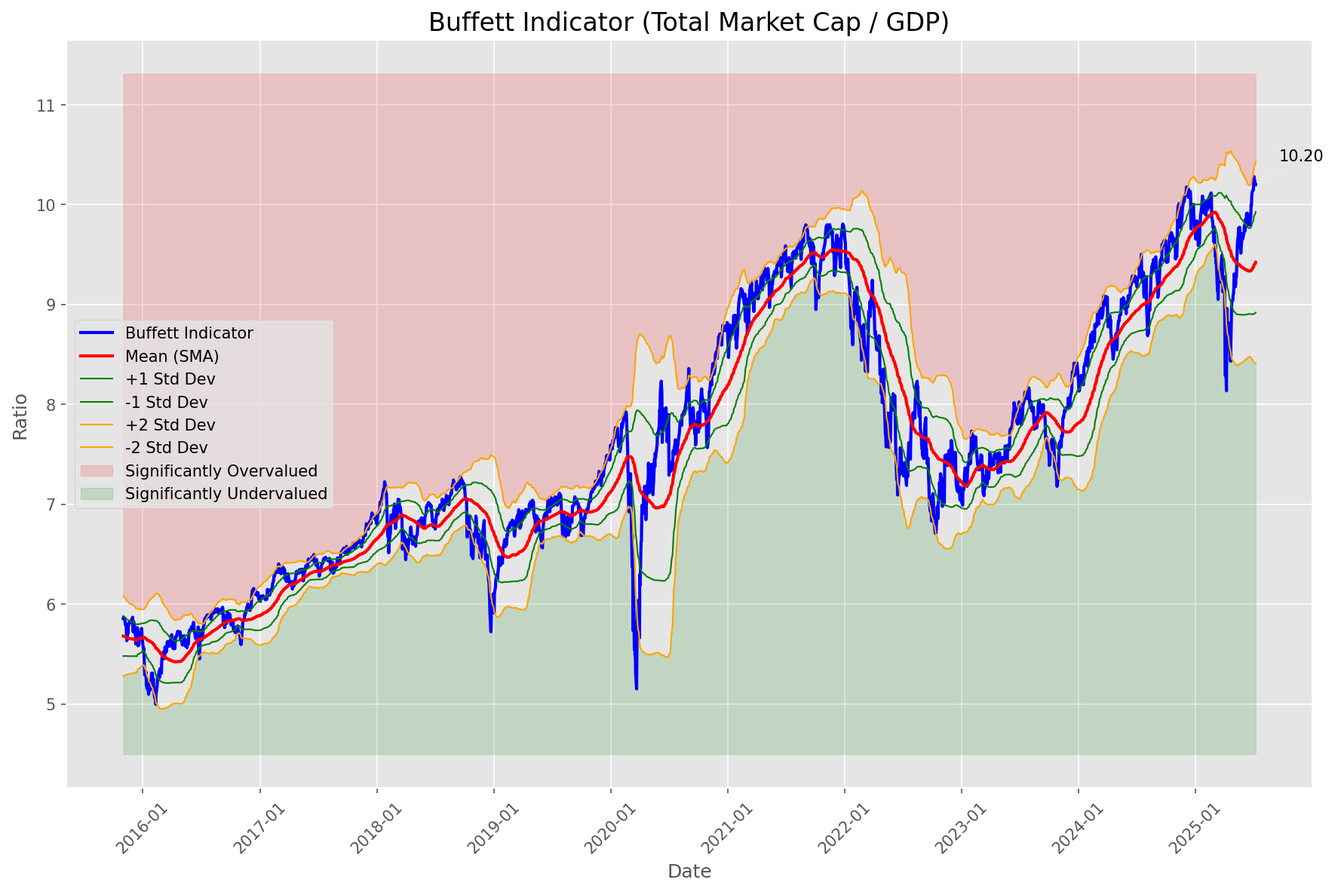
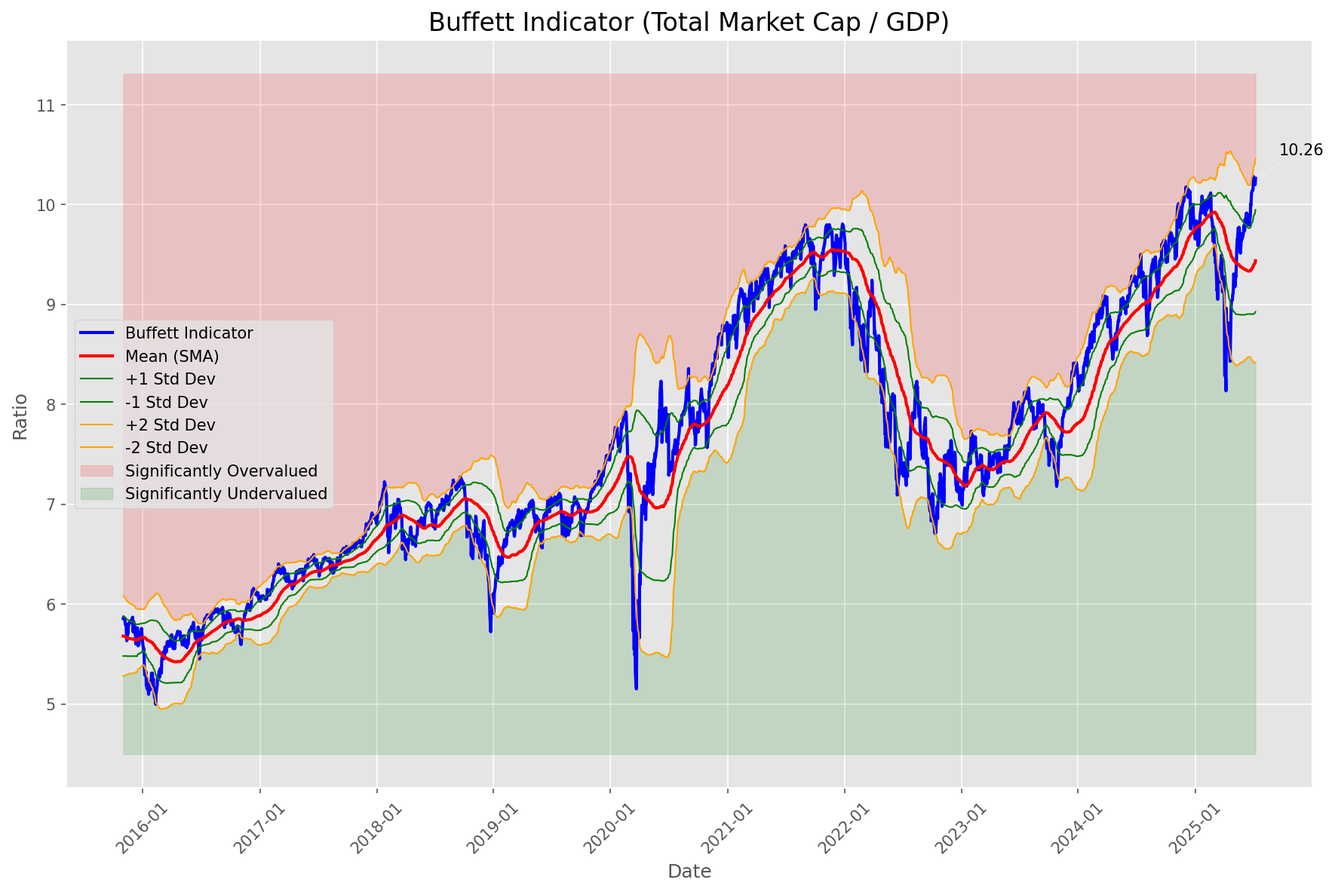
Add market report for 2025-07-10

diff --git a/oneil_relative_strength_report_2025-07-10.md b/oneil_relative_strength_report_2025-07-10.md
@@ -10,10 +10,10 @@
 |--------|-------|
 | **Market Valuation** | **Overvalued** |
 | **Current Ratio** | 10.26 |
-| **Historical Mean** | 9.42 |
-| **Standard Deviation** | 0.50 |
-| **Z-Score (StdDev from Mean)** | 1.54 |
-| **Total Market Cap** | $307.50 trillion |
+| **Historical Mean** | 9.44 |
+| **Standard Deviation** | 0.51 |
+| **Z-Score (StdDev from Mean)** | 1.62 |
+| **Total Market Cap** | $307.52 trillion |
 | **GDP** | $29.96 trillion |
 
 ## **Market Insights**
@@ -49,41 +49,41 @@ Based on William O'Neil's Relative Strength Methodology
 
 | ETF | Strength | RS Rating | Performance | Above Key MAs | Trend | Sector |
 |-----|----------|-----------|-------------|--------------|-------|--------|
-| [ARKW](https://www.tradingview.com/chart/?symbol=ARKW) | 98.5 | 97.0 | 76.14% | 10d ✓, 50d ✓, 200d ✓ | ↗ | Next Generation Internet |
-| [ARKK](https://www.tradingview.com/chart/?symbol=ARKK) | 98.0 | 96.0 | 71.17% | 10d ✓, 50d ✓, 200d ✓ | ↗ | Innovation |
-| [ARKF](https://www.tradingview.com/chart/?symbol=ARKF) | 98.0 | 96.0 | 71.57% | 10d ✓, 50d ✓, 200d ✓ | ↗ | Fintech Innovation |
-| [BLOK](https://www.tradingview.com/chart/?symbol=BLOK) | 96.0 | 92.0 | 54.17% | 10d ✓, 50d ✓, 200d ✓ | ↗ | Blockchain & Cryptocurrency |
-| [XLK](https://www.tradingview.com/chart/?symbol=XLK) | 92.5 | 85.0 | 40.54% | 10d ✓, 50d ✓, 200d ✓ | ↗ | Technology |
-| [AIQ](https://www.tradingview.com/chart/?symbol=AIQ) | 90.5 | 81.0 | 36.06% | 10d ✓, 50d ✓, 200d ✓ | ↗ | Artificial Intelligence & Technology |
-| [JETS](https://www.tradingview.com/chart/?symbol=JETS) | 89.0 | 78.0 | 32.46% | 10d ✓, 50d ✓, 200d ✓ | ↗ | Airlines |
-| [URA](https://www.tradingview.com/chart/?symbol=URA) | 88.6 | 97.0 | 79.08% | 10d ✗, 50d ✓, 200d ✓ | ↗ | Uranium |
-| [CIBR](https://www.tradingview.com/chart/?symbol=CIBR) | 88.5 | 77.0 | 32.25% | 10d ✓, 50d ✓, 200d ✓ | ↗ | Cybersecurity |
-| [PAVE](https://www.tradingview.com/chart/?symbol=PAVE) | 87.5 | 75.0 | 30.64% | 10d ✓, 50d ✓, 200d ✓ | ↗ | Infrastructure |
-| [XLI](https://www.tradingview.com/chart/?symbol=XLI) | 85.5 | 71.0 | 27.69% | 10d ✓, 50d ✓, 200d ✓ | ↗ | Industrial |
-| [XLY](https://www.tradingview.com/chart/?symbol=XLY) | 79.0 | 58.0 | 21.21% | 10d ✓, 50d ✓, 200d ✓ | ↗ | Consumer Discretionary |
-| [XLF](https://www.tradingview.com/chart/?symbol=XLF) | 77.0 | 54.0 | 18.85% | 10d ✓, 50d ✓, 200d ✓ | ↗ | Financial |
-| [IYZ](https://www.tradingview.com/chart/?symbol=IYZ) | 76.5 | 53.0 | 18.50% | 10d ✓, 50d ✓, 200d ✓ | ↗ | Telecommunications |
-| [SOXX](https://www.tradingview.com/chart/?symbol=SOXX) | 75.5 | 91.0 | 51.37% | 10d ✓, 50d ✓, 200d ✓ | ↘ | Semiconductors |
-| [XLC](https://www.tradingview.com/chart/?symbol=XLC) | 70.6 | 61.0 | 22.56% | 10d ✗, 50d ✓, 200d ✓ | ↗ | Communications |
-| [ARKG](https://www.tradingview.com/chart/?symbol=ARKG) | 70.5 | 81.0 | 35.78% | 10d ✓, 50d ✓, 200d ✓ | ↘ | Genomics |
-| [SLV](https://www.tradingview.com/chart/?symbol=SLV) | 69.6 | 59.0 | 21.59% | 10d ✗, 50d ✓, 200d ✓ | ↗ | Silver |
-| [XLU](https://www.tradingview.com/chart/?symbol=XLU) | 69.5 | 39.0 | 11.60% | 10d ✓, 50d ✓, 200d ✓ | ↗ | Utilities |
-| [ICLN](https://www.tradingview.com/chart/?symbol=ICLN) | 64.5 | 69.0 | 26.51% | 10d ✓, 50d ✓, 200d ✓ | ↘ | Clean Energy |
-| [KWEB](https://www.tradingview.com/chart/?symbol=KWEB) | 64.1 | 48.0 | 15.91% | 10d ✗, 50d ✓, 200d ✓ | ↗ | Chinese Internet |
-| [IYT](https://www.tradingview.com/chart/?symbol=IYT) | 63.5 | 67.0 | 25.32% | 10d ✓, 50d ✓, 200d ✓ | ↘ | Transportation |
-| [XLB](https://www.tradingview.com/chart/?symbol=XLB) | 58.0 | 56.0 | 19.77% | 10d ✓, 50d ✓, 200d ✓ | ↘ | Materials |
-| [GLD](https://www.tradingview.com/chart/?symbol=GLD) | 49.7 | 39.0 | 11.62% | 10d ✗, 50d ✗, 200d ✓ | ↗ | Gold |
-| [DBC](https://www.tradingview.com/chart/?symbol=DBC) | 45.5 | 31.0 | 8.10% | 10d ✓, 50d ✓, 200d ✓ | ↘ | Commodities |
-| [IBB](https://www.tradingview.com/chart/?symbol=IBB) | 41.8 | 44.0 | 13.84% | 10d ✓, 50d ✓, 200d ✗ | ↘ | Biotechnology |
-| [XLE](https://www.tradingview.com/chart/?symbol=XLE) | 40.3 | 41.0 | 12.54% | 10d ✓, 50d ✓, 200d ✗ | ↘ | Energy |
-| [ITB](https://www.tradingview.com/chart/?symbol=ITB) | 39.8 | 40.0 | 11.81% | 10d ✓, 50d ✓, 200d ✗ | ↘ | Home Construction |
-| [IYR](https://www.tradingview.com/chart/?symbol=IYR) | 37.3 | 35.0 | 9.63% | 10d ✓, 50d ✓, 200d ✗ | ↘ | Real Estate |
-| [XLP](https://www.tradingview.com/chart/?symbol=XLP) | 32.0 | 24.0 | 4.22% | 10d ✗, 50d ✗, 200d ✗ | ↗ | Consumer Staples |
-| [XLV](https://www.tradingview.com/chart/?symbol=XLV) | 28.3 | 17.0 | 0.76% | 10d ✓, 50d ✓, 200d ✗ | ↘ | Healthcare |
-| [DBA](https://www.tradingview.com/chart/?symbol=DBA) | 26.0 | 12.0 | -0.80% | 10d ✗, 50d ✗, 200d ✗ | ↗ | Agriculture |
-| [TLT](https://www.tradingview.com/chart/?symbol=TLT) | 14.4 | 9.0 | -3.46% | 10d ✗, 50d ✓, 200d ✗ | ↘ | Long-term Treasuries |
-| [UUP](https://www.tradingview.com/chart/?symbol=UUP) | 13.9 | 8.0 | -4.55% | 10d ✓, 50d ✗, 200d ✗ | ↘ | U.S. Dollar |
-| [BIL](https://www.tradingview.com/chart/?symbol=BIL) | 7.0 | 14.0 | 0.03% | 10d ✗, 50d ✗, 200d ✗ | ↘ | Short-term Treasuries |
+| [ARKK](https://www.tradingview.com/chart/?symbol=ARKK) | 98.5 | 97.0 | 79.26% | 10d ✓, 50d ✓, 200d ✓ | ↗ | Innovation |
+| [ARKW](https://www.tradingview.com/chart/?symbol=ARKW) | 98.0 | 96.0 | 76.14% | 10d ✓, 50d ✓, 200d ✓ | ↗ | Next Generation Internet |
+| [ARKF](https://www.tradingview.com/chart/?symbol=ARKF) | 98.0 | 96.0 | 73.83% | 10d ✓, 50d ✓, 200d ✓ | ↗ | Fintech Innovation |
+| [BLOK](https://www.tradingview.com/chart/?symbol=BLOK) | 95.5 | 91.0 | 54.17% | 10d ✓, 50d ✓, 200d ✓ | ↗ | Blockchain & Cryptocurrency |
+| [JETS](https://www.tradingview.com/chart/?symbol=JETS) | 93.5 | 87.0 | 45.94% | 10d ✓, 50d ✓, 200d ✓ | ↗ | Airlines |
+| [XLK](https://www.tradingview.com/chart/?symbol=XLK) | 92.5 | 85.0 | 42.58% | 10d ✓, 50d ✓, 200d ✓ | ↗ | Technology |
+| [URA](https://www.tradingview.com/chart/?symbol=URA) | 88.6 | 97.0 | 80.85% | 10d ✗, 50d ✓, 200d ✓ | ↗ | Uranium |
+| [PAVE](https://www.tradingview.com/chart/?symbol=PAVE) | 88.0 | 76.0 | 33.44% | 10d ✓, 50d ✓, 200d ✓ | ↗ | Infrastructure |
+| [XLI](https://www.tradingview.com/chart/?symbol=XLI) | 85.5 | 71.0 | 29.28% | 10d ✓, 50d ✓, 200d ✓ | ↗ | Industrial |
+| [XLY](https://www.tradingview.com/chart/?symbol=XLY) | 81.5 | 63.0 | 25.20% | 10d ✓, 50d ✓, 200d ✓ | ↗ | Consumer Discretionary |
+| [AIQ](https://www.tradingview.com/chart/?symbol=AIQ) | 80.6 | 81.0 | 38.03% | 10d ✗, 50d ✓, 200d ✓ | ↗ | Artificial Intelligence & Technology |
+| [SLV](https://www.tradingview.com/chart/?symbol=SLV) | 79.0 | 58.0 | 22.72% | 10d ✓, 50d ✓, 200d ✓ | ↗ | Silver |
+| [SOXX](https://www.tradingview.com/chart/?symbol=SOXX) | 76.5 | 93.0 | 58.94% | 10d ✓, 50d ✓, 200d ✓ | ↘ | Semiconductors |
+| [XLF](https://www.tradingview.com/chart/?symbol=XLF) | 76.0 | 52.0 | 19.55% | 10d ✓, 50d ✓, 200d ✓ | ↗ | Financial |
+| [CIBR](https://www.tradingview.com/chart/?symbol=CIBR) | 75.6 | 71.0 | 29.60% | 10d ✗, 50d ✓, 200d ✓ | ↗ | Cybersecurity |
+| [IYZ](https://www.tradingview.com/chart/?symbol=IYZ) | 75.0 | 50.0 | 18.50% | 10d ✓, 50d ✓, 200d ✓ | ↗ | Telecommunications |
+| [ARKG](https://www.tradingview.com/chart/?symbol=ARKG) | 72.5 | 85.0 | 42.09% | 10d ✓, 50d ✓, 200d ✓ | ↘ | Genomics |
+| [XLC](https://www.tradingview.com/chart/?symbol=XLC) | 70.1 | 60.0 | 23.77% | 10d ✗, 50d ✓, 200d ✓ | ↗ | Communications |
+| [XLU](https://www.tradingview.com/chart/?symbol=XLU) | 69.0 | 38.0 | 12.24% | 10d ✓, 50d ✓, 200d ✓ | ↗ | Utilities |
+| [KWEB](https://www.tradingview.com/chart/?symbol=KWEB) | 66.6 | 53.0 | 20.08% | 10d ✗, 50d ✓, 200d ✓ | ↗ | Chinese Internet |
+| [IYT](https://www.tradingview.com/chart/?symbol=IYT) | 66.5 | 73.0 | 31.12% | 10d ✓, 50d ✓, 200d ✓ | ↘ | Transportation |
+| [ICLN](https://www.tradingview.com/chart/?symbol=ICLN) | 64.5 | 69.0 | 28.27% | 10d ✓, 50d ✓, 200d ✓ | ↘ | Clean Energy |
+| [XLB](https://www.tradingview.com/chart/?symbol=XLB) | 61.0 | 62.0 | 24.74% | 10d ✓, 50d ✓, 200d ✓ | ↘ | Materials |
+| [XLE](https://www.tradingview.com/chart/?symbol=XLE) | 52.0 | 44.0 | 15.66% | 10d ✓, 50d ✓, 200d ✓ | ↘ | Energy |
+| [GLD](https://www.tradingview.com/chart/?symbol=GLD) | 48.2 | 36.0 | 11.11% | 10d ✗, 50d ✗, 200d ✓ | ↗ | Gold |
+| [DBC](https://www.tradingview.com/chart/?symbol=DBC) | 45.0 | 30.0 | 8.10% | 10d ✓, 50d ✓, 200d ✓ | ↘ | Commodities |
+| [IBB](https://www.tradingview.com/chart/?symbol=IBB) | 44.8 | 50.0 | 18.58% | 10d ✓, 50d ✓, 200d ✗ | ↘ | Biotechnology |
+| [ITB](https://www.tradingview.com/chart/?symbol=ITB) | 43.8 | 48.0 | 17.55% | 10d ✓, 50d ✓, 200d ✗ | ↘ | Home Construction |
+| [XLP](https://www.tradingview.com/chart/?symbol=XLP) | 43.2 | 26.0 | 6.27% | 10d ✗, 50d ✗, 200d ✓ | ↗ | Consumer Staples |
+| [IYR](https://www.tradingview.com/chart/?symbol=IYR) | 39.3 | 39.0 | 13.01% | 10d ✓, 50d ✓, 200d ✗ | ↘ | Real Estate |
+| [XLV](https://www.tradingview.com/chart/?symbol=XLV) | 29.8 | 20.0 | 2.71% | 10d ✓, 50d ✓, 200d ✗ | ↘ | Healthcare |
+| [DBA](https://www.tradingview.com/chart/?symbol=DBA) | 25.5 | 11.0 | -0.80% | 10d ✗, 50d ✗, 200d ✗ | ↗ | Agriculture |
+| [UUP](https://www.tradingview.com/chart/?symbol=UUP) | 13.9 | 8.0 | -3.86% | 10d ✓, 50d ✗, 200d ✗ | ↘ | U.S. Dollar |
+| [BIL](https://www.tradingview.com/chart/?symbol=BIL) | 6.5 | 13.0 | 0.03% | 10d ✗, 50d ✗, 200d ✗ | ↘ | Short-term Treasuries |
+| [TLT](https://www.tradingview.com/chart/?symbol=TLT) | 5.0 | 10.0 | -1.99% | 10d ✗, 50d ✗, 200d ✗ | ↘ | Long-term Treasuries |
 
 ### **Sector ETF Performance Interpretation**
 
@@ -98,156 +98,152 @@ This table shows the relative strength metrics for different market sectors base
 
 ### **Current Sector Leadership**
 
-The current market leadership is coming from the following sectors: **Next Generation Internet, Innovation, Fintech Innovation**.
+The current market leadership is coming from the following sectors: **Innovation, Next Generation Internet, Fintech Innovation**.
 
-The **Next Generation Internet** sector (represented by **ARKW**) is showing particularly strong relative strength with an RS rating of 97.0 and performance of 76.14% vs. the S&P 500. This sector is trading above its 10-day, 50-day, 200-day moving average(s). Investors should consider focusing on high RS stocks within these leading sectors for potential outperformance.
+The **Innovation** sector (represented by **ARKK**) is showing particularly strong relative strength with an RS rating of 97.0 and performance of 79.26% vs. the S&P 500. This sector is trading above its 10-day, 50-day, 200-day moving average(s). Investors should consider focusing on high RS stocks within these leading sectors for potential outperformance.
 
 ---
 
 ## **Buy Recommendations**
 
-The following 53 stocks show exceptional relative strength:
+The following 37 stocks show exceptional relative strength:
 
 | RS Rating | Buy Score | Current Price | Chart | Name | Ticker |
 |-----------|-----------|---------------|-------|------|--------|
-| 100 | 100 | $94.54 | [Chart](https://www.tradingview.com/chart/?symbol=HOOD) | Robinhood Markets, Inc. Class A Common Stock | HOOD |
-| 100 | 100 | $179.37 | [Chart](https://www.tradingview.com/chart/?symbol=LEU) | Centrus Energy Corp. | LEU |
-| 99 | 100 | $75.77 | [Chart](https://www.tradingview.com/chart/?symbol=ODD) | ODDITY Tech Ltd. Class A Ordinary Shares | ODD |
+| 100 | 100 | $183.59 | [Chart](https://www.tradingview.com/chart/?symbol=LEU) | Centrus Energy Corp. | LEU |
+| 100 | 100 | $94.20 | [Chart](https://www.tradingview.com/chart/?symbol=HOOD) | Robinhood Markets, Inc. Class A Common Stock | HOOD |
+| 99 | 100 | $352.58 | [Chart](https://www.tradingview.com/chart/?symbol=CVNA) | Carvana Co. | CVNA |
+| 99 | 100 | $46.95 | [Chart](https://www.tradingview.com/chart/?symbol=MP) | MP Materials Corp. | MP |
+| 99 | 100 | $104.79 | [Chart](https://www.tradingview.com/chart/?symbol=RBLX) | Roblox Corporation | RBLX |
 | 99 | 100 | $145.69 | [Chart](https://www.tradingview.com/chart/?symbol=LMB) | Limbach Holdings, Inc Common Stock | LMB |
-| 99 | 100 | $106.68 | [Chart](https://www.tradingview.com/chart/?symbol=RBLX) | Roblox Corporation | RBLX |
-| 99 | 100 | $351.09 | [Chart](https://www.tradingview.com/chart/?symbol=CVNA) | Carvana Co. | CVNA |
-| 98 | 100 | $43.90 | [Chart](https://www.tradingview.com/chart/?symbol=FARO) | Faro Technologies Inc | FARO |
-| 98 | 100 | $143.13 | [Chart](https://www.tradingview.com/chart/?symbol=PLTR) | Palantir Technologies Inc. Class A Common Stock | PLTR |
-| 98 | 100 | $104.77 | [Chart](https://www.tradingview.com/chart/?symbol=VRNA) | Verona Pharma plc | VRNA |
-| 98 | 100 | $535.77 | [Chart](https://www.tradingview.com/chart/?symbol=GEV) | GE Vernova Inc. | GEV |
-| 97 | 100 | $316.50 | [Chart](https://www.tradingview.com/chart/?symbol=ZS) | Zscaler, Inc. Common Stock | ZS |
-| 97 | 100 | $142.40 | [Chart](https://www.tradingview.com/chart/?symbol=FUTU) | Futu Holdings Limited American Depositary Shares | FUTU |
-| 96 | 100 | $49.06 | [Chart](https://www.tradingview.com/chart/?symbol=REVG) | REV Group, Inc. | REVG |
-| 96 | 100 | $51.23 | [Chart](https://www.tradingview.com/chart/?symbol=ARKF) | ARK Fintech Innovation ETF | ARKF |
-| 96 | 100 | $91.59 | [Chart](https://www.tradingview.com/chart/?symbol=RBRK) | Rubrik, Inc. | RBRK |
-| 96 | 100 | $38.50 | [Chart](https://www.tradingview.com/chart/?symbol=AS) | Amer Sports, Inc. | AS |
-| 95 | 100 | $52.04 | [Chart](https://www.tradingview.com/chart/?symbol=INOD) | Innodata Inc. | INOD |
-| 94 | 100 | $34.49 | [Chart](https://www.tradingview.com/chart/?symbol=APG) | APi Group Corporation | APG |
-| 94 | 100 | $21.36 | [Chart](https://www.tradingview.com/chart/?symbol=MAG) | MAG Silver Corp. | MAG |
-| 94 | 100 | $46.02 | [Chart](https://www.tradingview.com/chart/?symbol=KTOS) | Kratos Defense & Security Solutions, Inc. | KTOS |
-| 94 | 100 | $89.00 | [Chart](https://www.tradingview.com/chart/?symbol=RYTM) | Rhythm Pharmaceuticals, Inc. Common Stock | RYTM |
-| 94 | 100 | $57.84 | [Chart](https://www.tradingview.com/chart/?symbol=IBKR) | Interactive Brokers Group, Inc. Class A Common Stock | IBKR |
-| 93 | 100 | $181.42 | [Chart](https://www.tradingview.com/chart/?symbol=HWM) | Howmet Aerospace Inc. | HWM |
-| 93 | 100 | $252.03 | [Chart](https://www.tradingview.com/chart/?symbol=WWD) | Woodward, Inc. | WWD |
-| 93 | 100 | $513.51 | [Chart](https://www.tradingview.com/chart/?symbol=CRWD) | CrowdStrike Holdings, Inc. Class A Common Stock | CRWD |
-| 93 | 100 | $71.93 | [Chart](https://www.tradingview.com/chart/?symbol=URBN) | Urban Outfitters Inc | URBN |
-| 93 | 100 | $30.38 | [Chart](https://www.tradingview.com/chart/?symbol=DB) | Deutsche Bank Aktiengesellschaft | DB |
-| 92 | 100 | $352.74 | [Chart](https://www.tradingview.com/chart/?symbol=APP) | Applovin Corporation Class A Common Stock | APP |
-| 92 | 100 | $47.01 | [Chart](https://www.tradingview.com/chart/?symbol=DRS) | Leonardo DRS, Inc. Common Stock | DRS |
-| 92 | 100 | $42.85 | [Chart](https://www.tradingview.com/chart/?symbol=KD) | Kyndryl Holdings, Inc. | KD |
-| 91 | 100 | $95.31 | [Chart](https://www.tradingview.com/chart/?symbol=TPR) | Tapestry, Inc. Common Stock | TPR |
-| 91 | 100 | $45.98 | [Chart](https://www.tradingview.com/chart/?symbol=BBIO) | BridgeBio Pharma, Inc. Common Stock | BBIO |
-| 91 | 100 | $290.56 | [Chart](https://www.tradingview.com/chart/?symbol=RL) | Ralph Lauren Corporation | RL |
-| 90 | 100 | $250.33 | [Chart](https://www.tradingview.com/chart/?symbol=GE) | GE Aerospace | GE |
-| 89 | 100 | $44.64 | [Chart](https://www.tradingview.com/chart/?symbol=TOST) | Toast, Inc. | TOST |
-| 89 | 100 | $18.63 | [Chart](https://www.tradingview.com/chart/?symbol=BCS) | Barclays PLC | BCS |
-| 88 | 100 | $64.14 | [Chart](https://www.tradingview.com/chart/?symbol=CAKE) | Cheesecake Factory (The) | CAKE |
-| 87 | 100 | $29.41 | [Chart](https://www.tradingview.com/chart/?symbol=SRAD) | Sportradar Group AG Class A Ordinary Shares | SRAD |
-| 89 | 99 | $103.46 | [Chart](https://www.tradingview.com/chart/?symbol=SANM) | Sanmina  Corp | SANM |
-| 89 | 99 | $29.98 | [Chart](https://www.tradingview.com/chart/?symbol=NTGR) | NETGEAR, Inc. | NTGR |
-| 88 | 99 | $49.57 | [Chart](https://www.tradingview.com/chart/?symbol=BTC) | Grayscale Bitcoin Mini Trust ETF | BTC |
-| 88 | 98 | $63.58 | [Chart](https://www.tradingview.com/chart/?symbol=IBIT) | iShares Bitcoin Trust ETF | IBIT |
-| 85 | 98 | $29.54 | [Chart](https://www.tradingview.com/chart/?symbol=CAE) | CAE INC | CAE |
-| 86 | 97 | $218.03 | [Chart](https://www.tradingview.com/chart/?symbol=COF) | Capital One Financial | COF |
-| 86 | 97 | $36.21 | [Chart](https://www.tradingview.com/chart/?symbol=ATAT) | Atour Lifestyle Holdings Limited American Depositary Shares | ATAT |
-| 83 | 97 | $97.10 | [Chart](https://www.tradingview.com/chart/?symbol=SNEX) | StoneX Group Inc. Common Stock | SNEX |
-| 85 | 96 | $25.24 | [Chart](https://www.tradingview.com/chart/?symbol=KAR) | OPENLANE, Inc | KAR |
-| 84 | 96 | $60.30 | [Chart](https://www.tradingview.com/chart/?symbol=SHLD) | Global X Defense Tech ETF | SHLD |
-| 84 | 94 | $46.53 | [Chart](https://www.tradingview.com/chart/?symbol=AU) | AngloGold Ashanti plc | AU |
-| 82 | 94 | $26.62 | [Chart](https://www.tradingview.com/chart/?symbol=OR) | OR Royalties Inc. | OR |
-| 82 | 93 | $76.20 | [Chart](https://www.tradingview.com/chart/?symbol=CTVA) | Corteva, Inc. Common Stock | CTVA |
-| 82 | 92 | $256.57 | [Chart](https://www.tradingview.com/chart/?symbol=WTS) | Watts Water Technologies, Inc. Class A | WTS |
-| 80 | 90 | $112.07 | [Chart](https://www.tradingview.com/chart/?symbol=SPMO) | Invesco S&P 500 Momentum ETF | SPMO |
+| 98 | 100 | $75.77 | [Chart](https://www.tradingview.com/chart/?symbol=ODD) | ODDITY Tech Ltd. Class A Ordinary Shares | ODD |
+| 98 | 100 | $104.85 | [Chart](https://www.tradingview.com/chart/?symbol=VRNA) | Verona Pharma plc | VRNA |
+| 98 | 100 | $144.76 | [Chart](https://www.tradingview.com/chart/?symbol=FUTU) | Futu Holdings Limited American Depositary Shares | FUTU |
+| 97 | 100 | $142.13 | [Chart](https://www.tradingview.com/chart/?symbol=PLTR) | Palantir Technologies Inc. Class A Common Stock | PLTR |
+| 97 | 100 | $526.75 | [Chart](https://www.tradingview.com/chart/?symbol=GEV) | GE Vernova Inc. | GEV |
+| 97 | 100 | $43.92 | [Chart](https://www.tradingview.com/chart/?symbol=FARO) | Faro Technologies Inc | FARO |
+| 96 | 100 | $50.74 | [Chart](https://www.tradingview.com/chart/?symbol=ARKF) | ARK Fintech Innovation ETF | ARKF |
+| 95 | 100 | $72.00 | [Chart](https://www.tradingview.com/chart/?symbol=URBN) | Urban Outfitters Inc | URBN |
+| 95 | 100 | $49.06 | [Chart](https://www.tradingview.com/chart/?symbol=REVG) | REV Group, Inc. | REVG |
+| 93 | 100 | $96.16 | [Chart](https://www.tradingview.com/chart/?symbol=TPR) | Tapestry, Inc. Common Stock | TPR |
+| 93 | 100 | $34.49 | [Chart](https://www.tradingview.com/chart/?symbol=APG) | APi Group Corporation | APG |
+| 93 | 100 | $51.06 | [Chart](https://www.tradingview.com/chart/?symbol=INOD) | Innodata Inc. | INOD |
+| 92 | 100 | $45.45 | [Chart](https://www.tradingview.com/chart/?symbol=KTOS) | Kratos Defense & Security Solutions, Inc. | KTOS |
+| 92 | 100 | $252.03 | [Chart](https://www.tradingview.com/chart/?symbol=WWD) | Woodward, Inc. | WWD |
+| 92 | 100 | $57.87 | [Chart](https://www.tradingview.com/chart/?symbol=IBKR) | Interactive Brokers Group, Inc. Class A Common Stock | IBKR |
+| 91 | 100 | $88.98 | [Chart](https://www.tradingview.com/chart/?symbol=RYTM) | Rhythm Pharmaceuticals, Inc. Common Stock | RYTM |
+| 91 | 100 | $46.41 | [Chart](https://www.tradingview.com/chart/?symbol=BBIO) | BridgeBio Pharma, Inc. Common Stock | BBIO |
+| 90 | 100 | $30.14 | [Chart](https://www.tradingview.com/chart/?symbol=DB) | Deutsche Bank Aktiengesellschaft | DB |
+| 90 | 100 | $36.55 | [Chart](https://www.tradingview.com/chart/?symbol=ATAT) | Atour Lifestyle Holdings Limited American Depositary Shares | ATAT |
+| 89 | 100 | $46.45 | [Chart](https://www.tradingview.com/chart/?symbol=DRS) | Leonardo DRS, Inc. Common Stock | DRS |
+| 88 | 100 | $18.75 | [Chart](https://www.tradingview.com/chart/?symbol=BCS) | Barclays PLC | BCS |
+| 88 | 98 | $103.46 | [Chart](https://www.tradingview.com/chart/?symbol=SANM) | Sanmina  Corp | SANM |
+| 87 | 98 | $25.59 | [Chart](https://www.tradingview.com/chart/?symbol=KAR) | OPENLANE, Inc | KAR |
+| 84 | 98 | $29.14 | [Chart](https://www.tradingview.com/chart/?symbol=SRAD) | Sportradar Group AG Class A Ordinary Shares | SRAD |
+| 87 | 97 | $63.27 | [Chart](https://www.tradingview.com/chart/?symbol=IBIT) | iShares Bitcoin Trust ETF | IBIT |
+| 87 | 97 | $29.98 | [Chart](https://www.tradingview.com/chart/?symbol=NTGR) | NETGEAR, Inc. | NTGR |
+| 83 | 96 | $29.36 | [Chart](https://www.tradingview.com/chart/?symbol=CAE) | CAE INC | CAE |
+| 82 | 96 | $97.10 | [Chart](https://www.tradingview.com/chart/?symbol=SNEX) | StoneX Group Inc. Common Stock | SNEX |
+| 81 | 93 | $26.44 | [Chart](https://www.tradingview.com/chart/?symbol=OR) | OR Royalties Inc. | OR |
+| 82 | 91 | $24.95 | [Chart](https://www.tradingview.com/chart/?symbol=PUK) | PRUDENTIAL PLC ADS (REP 2 ORD SHARES) | PUK |
+| 80 | 90 | $256.57 | [Chart](https://www.tradingview.com/chart/?symbol=WTS) | Watts Water Technologies, Inc. Class A | WTS |
 
 ---
 
 
 ## **Sell Recommendations**
 
-The following 75 stocks show deteriorating relative strength:
+The following 87 stocks show deteriorating relative strength:
 
 | RS Rating | Sell Score | Current Price | Chart | Name | Ticker |
 |-----------|------------|---------------|-------|------|--------|
-| 1 | 100 | $24.94 | [Chart](https://www.tradingview.com/chart/?symbol=QID) | ProShares UltraShort QQQ | QID |
+| 1 | 100 | $25.16 | [Chart](https://www.tradingview.com/chart/?symbol=QID) | ProShares UltraShort QQQ | QID |
 | 1 | 100 | $16.38 | [Chart](https://www.tradingview.com/chart/?symbol=SDS) | ProShares UltraShort S&P500 | SDS |
-| 1 | 100 | $25.37 | [Chart](https://www.tradingview.com/chart/?symbol=TECS) | Direxion Daily Technology Bear 3x Shares | TECS |
-| 1 | 100 | $40.48 | [Chart](https://www.tradingview.com/chart/?symbol=SDOW) | ProShares UltraPro Short Dow 30 | SDOW |
+| 1 | 100 | $25.81 | [Chart](https://www.tradingview.com/chart/?symbol=TECS) | Direxion Daily Technology Bear 3x Shares | TECS |
+| 1 | 100 | $40.18 | [Chart](https://www.tradingview.com/chart/?symbol=SDOW) | ProShares UltraPro Short Dow 30 | SDOW |
+| 1 | 100 | $24.80 | [Chart](https://www.tradingview.com/chart/?symbol=ZSL) | ProShares UltraShort Silver | ZSL |
 | 2 | 100 | $23.85 | [Chart](https://www.tradingview.com/chart/?symbol=DXD) | ProShares UltraShort Dow 30 | DXD |
-| 2 | 100 | $18.90 | [Chart](https://www.tradingview.com/chart/?symbol=BITI) | ProShares Short Bitcoin ETF | BITI |
-| 2 | 100 | $25.44 | [Chart](https://www.tradingview.com/chart/?symbol=ZSL) | ProShares UltraShort Silver | ZSL |
-| 2 | 100 | $33.43 | [Chart](https://www.tradingview.com/chart/?symbol=PSQ) | ProShares Short QQQ | PSQ |
-| 2 | 100 | $34.67 | [Chart](https://www.tradingview.com/chart/?symbol=SARK) | Investment Managers Series Trust II Tradr 1X Short Innovation Daily ETF | SARK |
-| 2 | 100 | $10.25 | [Chart](https://www.tradingview.com/chart/?symbol=SNDX) | Syndax Pharmaceuticals, Inc. | SNDX |
+| 2 | 100 | $232.50 | [Chart](https://www.tradingview.com/chart/?symbol=MOH) | Molina Healthcare, Inc. | MOH |
 | 2 | 100 | $13.05 | [Chart](https://www.tradingview.com/chart/?symbol=IART) | Integra LifeSciences Holdings | IART |
-| 3 | 100 | $39.35 | [Chart](https://www.tradingview.com/chart/?symbol=SH) | ProShares Short S&P500 | SH |
-| 3 | 100 | $25.29 | [Chart](https://www.tradingview.com/chart/?symbol=DOG) | ProShares Short Dow30 | DOG |
+| 2 | 100 | $33.59 | [Chart](https://www.tradingview.com/chart/?symbol=PSQ) | ProShares Short QQQ | PSQ |
+| 2 | 100 | $34.67 | [Chart](https://www.tradingview.com/chart/?symbol=SARK) | Investment Managers Series Trust II Tradr 1X Short Innovation Daily ETF | SARK |
+| 2 | 100 | $39.38 | [Chart](https://www.tradingview.com/chart/?symbol=SH) | ProShares Short S&P500 | SH |
+| 2 | 100 | $19.00 | [Chart](https://www.tradingview.com/chart/?symbol=BITI) | ProShares Short Bitcoin ETF | BITI |
+| 2 | 100 | $10.25 | [Chart](https://www.tradingview.com/chart/?symbol=SNDX) | Syndax Pharmaceuticals, Inc. | SNDX |
+| 3 | 100 | $234.42 | [Chart](https://www.tradingview.com/chart/?symbol=HUM) | Humana Inc. | HUM |
 | 3 | 100 | $24.78 | [Chart](https://www.tradingview.com/chart/?symbol=CRTO) | Criteo S.A. | CRTO |
+| 3 | 100 | $25.24 | [Chart](https://www.tradingview.com/chart/?symbol=DOG) | ProShares Short Dow30 | DOG |
+| 3 | 100 | $10.37 | [Chart](https://www.tradingview.com/chart/?symbol=LBTYK) | Liberty Global Ltd. Class C Common Shares | LBTYK |
 | 3 | 100 | $12.55 | [Chart](https://www.tradingview.com/chart/?symbol=CCRN) | Cross Country Healthcare Inc | CCRN |
-| 3 | 100 | $17.08 | [Chart](https://www.tradingview.com/chart/?symbol=HP) | Helmerich & Payne, Inc. | HP |
-| 3 | 100 | $37.27 | [Chart](https://www.tradingview.com/chart/?symbol=IBTA) | Ibotta, Inc. | IBTA |
 | 3 | 100 | $42.86 | [Chart](https://www.tradingview.com/chart/?symbol=LINE) | Lineage, Inc. Common Stock | LINE |
-| 4 | 100 | $16.26 | [Chart](https://www.tradingview.com/chart/?symbol=COLD) | Americold Realty Trust, Inc. | COLD |
+| 3 | 100 | $37.27 | [Chart](https://www.tradingview.com/chart/?symbol=IBTA) | Ibotta, Inc. | IBTA |
 | 4 | 100 | $65.01 | [Chart](https://www.tradingview.com/chart/?symbol=ZROZ) | PIMCO 25+ Year Zero Coupon U.S. Treasury Index Exchange-Traded Fund | ZROZ |
-| 4 | 100 | $10.37 | [Chart](https://www.tradingview.com/chart/?symbol=LBTYK) | Liberty Global Ltd. Class C Common Shares | LBTYK |
-| 5 | 100 | $134.45 | [Chart](https://www.tradingview.com/chart/?symbol=INSP) | Inspire Medical Systems, Inc. | INSP |
-| 5 | 100 | $55.80 | [Chart](https://www.tradingview.com/chart/?symbol=AMWD) | American Woodmark Corp | AMWD |
-| 5 | 100 | $10.09 | [Chart](https://www.tradingview.com/chart/?symbol=LBTYA) | Liberty Global Ltd. Class A Common Shares | LBTYA |
-| 5 | 100 | $51.26 | [Chart](https://www.tradingview.com/chart/?symbol=LW) | Lamb Weston Holdings, Inc. | LW |
+| 4 | 100 | $134.45 | [Chart](https://www.tradingview.com/chart/?symbol=INSP) | Inspire Medical Systems, Inc. | INSP |
+| 5 | 100 | $17.21 | [Chart](https://www.tradingview.com/chart/?symbol=HP) | Helmerich & Payne, Inc. | HP |
 | 5 | 100 | $32.47 | [Chart](https://www.tradingview.com/chart/?symbol=CRI) | Carter's Inc. | CRI |
+| 5 | 100 | $55.80 | [Chart](https://www.tradingview.com/chart/?symbol=AMWD) | American Woodmark Corp | AMWD |
+| 5 | 100 | $10.20 | [Chart](https://www.tradingview.com/chart/?symbol=LBTYA) | Liberty Global Ltd. Class A Common Shares | LBTYA |
 | 6 | 100 | $14.54 | [Chart](https://www.tradingview.com/chart/?symbol=SEM) | SELECT MEDICAL HOLDINGS CORP | SEM |
-| 7 | 100 | $15.85 | [Chart](https://www.tradingview.com/chart/?symbol=TNDM) | Tandem Diabetes Care, Inc. | TNDM |
-| 8 | 100 | $10.35 | [Chart](https://www.tradingview.com/chart/?symbol=NMZ) | Nuveen Municipal High Income Opportunity Fund | NMZ |
+| 7 | 100 | $15.61 | [Chart](https://www.tradingview.com/chart/?symbol=TNDM) | Tandem Diabetes Care, Inc. | TNDM |
+| 7 | 100 | $14.59 | [Chart](https://www.tradingview.com/chart/?symbol=VRE) | Veris Residential, Inc. | VRE |
+| 7 | 100 | $16.51 | [Chart](https://www.tradingview.com/chart/?symbol=COLD) | Americold Realty Trust, Inc. | COLD |
+| 7 | 100 | $10.35 | [Chart](https://www.tradingview.com/chart/?symbol=NMZ) | Nuveen Municipal High Income Opportunity Fund | NMZ |
 | 8 | 100 | $52.91 | [Chart](https://www.tradingview.com/chart/?symbol=CNMD) | CONMED Corporation | CNMD |
-| 8 | 100 | $14.59 | [Chart](https://www.tradingview.com/chart/?symbol=VRE) | Veris Residential, Inc. | VRE |
-| 11 | 100 | $40.91 | [Chart](https://www.tradingview.com/chart/?symbol=POR) | Portland General Electric Company | POR |
-| 11 | 100 | $17.70 | [Chart](https://www.tradingview.com/chart/?symbol=ZTO) | ZTO Express (Cayman) Inc. American Depositary Shares, each representing one Class A ordinary share | ZTO |
-| 13 | 100 | $29.16 | [Chart](https://www.tradingview.com/chart/?symbol=SPTS) | SPDR Portfolio Short Term Treasury ETF | SPTS |
+| 9 | 100 | $51.08 | [Chart](https://www.tradingview.com/chart/?symbol=LW) | Lamb Weston Holdings, Inc. | LW |
+| 10 | 100 | $86.59 | [Chart](https://www.tradingview.com/chart/?symbol=TLT) | iShares 20+ Year Treasury Bond ETF | TLT |
+| 10 | 100 | $40.91 | [Chart](https://www.tradingview.com/chart/?symbol=POR) | Portland General Electric Company | POR |
+| 11 | 100 | $132.01 | [Chart](https://www.tradingview.com/chart/?symbol=KMB) | Kimberly-Clark Corp. | KMB |
+| 12 | 100 | $29.14 | [Chart](https://www.tradingview.com/chart/?symbol=SPTS) | SPDR Portfolio Short Term Treasury ETF | SPTS |
 | 6 | 99 | $49.28 | [Chart](https://www.tradingview.com/chart/?symbol=CCOI) | Cogent Communications Holdings, Inc. | CCOI |
-| 11 | 99 | $38.85 | [Chart](https://www.tradingview.com/chart/?symbol=LKQ) | LKQ Corporation | LKQ |
-| 11 | 99 | $131.49 | [Chart](https://www.tradingview.com/chart/?symbol=KMB) | Kimberly-Clark Corp. | KMB |
-| 10 | 98 | $71.64 | [Chart](https://www.tradingview.com/chart/?symbol=TNET) | TRINET GROUP, INC. | TNET |
-| 6 | 97 | $17.11 | [Chart](https://www.tradingview.com/chart/?symbol=NOMD) | Nomad Foods Limited | NOMD |
-| 6 | 96 | $25.28 | [Chart](https://www.tradingview.com/chart/?symbol=DRV) | Direxion Daily Real Estate Bear 3X Shares | DRV |
-| 10 | 96 | $46.27 | [Chart](https://www.tradingview.com/chart/?symbol=CWT) | California Water Service | CWT |
-| 12 | 96 | $104.91 | [Chart](https://www.tradingview.com/chart/?symbol=DECK) | Deckers Outdoor Corp | DECK |
-| 13 | 96 | $13.76 | [Chart](https://www.tradingview.com/chart/?symbol=TSLT) | T-REX 2X Long Tesla Daily Target ETF | TSLT |
-| 13 | 96 | $22.85 | [Chart](https://www.tradingview.com/chart/?symbol=IBTG) | iShares iBonds Dec 2026 Term Treasury ETF | IBTG |
-| 14 | 96 | $77.08 | [Chart](https://www.tradingview.com/chart/?symbol=CNS) | Cohen & Steers Inc. | CNS |
-| 9 | 94 | $48.83 | [Chart](https://www.tradingview.com/chart/?symbol=SNY) | Sanofi American Depositary Shares (Each representing one-half of one ordinary share) | SNY |
-| 10 | 93 | $21.74 | [Chart](https://www.tradingview.com/chart/?symbol=TUA) | Simplify Short Term Treasury Futures Strategy ETF | TUA |
-| 13 | 93 | $161.95 | [Chart](https://www.tradingview.com/chart/?symbol=HSY) | The Hershey Company | HSY |
-| 21 | 92 | $32.27 | [Chart](https://www.tradingview.com/chart/?symbol=INVH) | Invitation Homes Inc. Common Stock | INVH |
-| 21 | 89 | $13.97 | [Chart](https://www.tradingview.com/chart/?symbol=DOLE) | Dole plc | DOLE |
-| 13 | 88 | $82.47 | [Chart](https://www.tradingview.com/chart/?symbol=SHY) | iShares 1-3 Year Treasury Bond ETF | SHY |
-| 17 | 88 | $34.57 | [Chart](https://www.tradingview.com/chart/?symbol=PECO) | Phillips Edison & Company, Inc. Common Stock | PECO |
-| 25 | 88 | $86.33 | [Chart](https://www.tradingview.com/chart/?symbol=SIGI) | Selective Insurance Group | SIGI |
-| 14 | 87 | $110.16 | [Chart](https://www.tradingview.com/chart/?symbol=SHV) | iShares Short Treasury Bond ETF | SHV |
-| 22 | 87 | $47.72 | [Chart](https://www.tradingview.com/chart/?symbol=KBR) | KBR, Inc. | KBR |
-| 26 | 87 | $60.80 | [Chart](https://www.tradingview.com/chart/?symbol=UL) | Unilever plc | UL |
-| 23 | 86 | $15.86 | [Chart](https://www.tradingview.com/chart/?symbol=BNL) | Broadstone Net Lease, Inc. | BNL |
-| 15 | 85 | $59.88 | [Chart](https://www.tradingview.com/chart/?symbol=FTSM) | First Trust Enhanced Short Maturity ETF | FTSM |
-| 20 | 85 | $26.16 | [Chart](https://www.tradingview.com/chart/?symbol=PNTG) | The Pennant Group, Inc. Common Stock | PNTG |
-| 22 | 85 | $104.74 | [Chart](https://www.tradingview.com/chart/?symbol=DEO) | Diageo plc | DEO |
-| 30 | 83 | $463.06 | [Chart](https://www.tradingview.com/chart/?symbol=LMT) | Lockheed Martin Corp. | LMT |
-| 18 | 82 | $25.19 | [Chart](https://www.tradingview.com/chart/?symbol=TBBB) | BBB Foods Inc. | TBBB |
-| 22 | 82 | $77.65 | [Chart](https://www.tradingview.com/chart/?symbol=AWR) | American States Water Company | AWR |
-| 23 | 82 | $40.72 | [Chart](https://www.tradingview.com/chart/?symbol=UDR) | UDR, Inc. | UDR |
-| 24 | 79 | $19.10 | [Chart](https://www.tradingview.com/chart/?symbol=MSDL) | Morgan Stanley Direct Lending Fund | MSDL |
-| 25 | 79 | $35.51 | [Chart](https://www.tradingview.com/chart/?symbol=AMH) | AMERICAN HOMES 4 RENT | AMH |
-| 29 | 79 | $120.47 | [Chart](https://www.tradingview.com/chart/?symbol=ITGR) | Integer Holdings Corporation | ITGR |
-| 35 | 77 | $18.52 | [Chart](https://www.tradingview.com/chart/?symbol=S) | SentinelOne, Inc. | S |
-| 31 | 72 | $39.94 | [Chart](https://www.tradingview.com/chart/?symbol=LZB) | La-Z-Boy Incorporated | LZB |
-| 34 | 72 | $166.84 | [Chart](https://www.tradingview.com/chart/?symbol=EGP) | EastGroup Properties Inc. | EGP |
-| 35 | 72 | $56.44 | [Chart](https://www.tradingview.com/chart/?symbol=USRT) | iShares Core U.S. REIT ETF | USRT |
-| 33 | 69 | $89.19 | [Chart](https://www.tradingview.com/chart/?symbol=VNQ) | Vanguard Real Estate ETF | VNQ |
-| 37 | 68 | $102.46 | [Chart](https://www.tradingview.com/chart/?symbol=FMX) | FOMENTO ECONOMICO MEXICANO, S.A.B. DE C.V. | FMX |
-| 33 | 67 | $240.25 | [Chart](https://www.tradingview.com/chart/?symbol=RNR) | RenaissanceRe Holdings Ltd. | RNR |
-| 38 | 65 | $58.71 | [Chart](https://www.tradingview.com/chart/?symbol=ESNT) | Essent Group LTD | ESNT |
+| 9 | 99 | $71.64 | [Chart](https://www.tradingview.com/chart/?symbol=TNET) | TRINET GROUP, INC. | TNET |
+| 5 | 98 | $17.11 | [Chart](https://www.tradingview.com/chart/?symbol=NOMD) | Nomad Foods Limited | NOMD |
+| 9 | 98 | $13.16 | [Chart](https://www.tradingview.com/chart/?symbol=GO) | Grocery Outlet Holding Corp. Common Stock | GO |
+| 3 | 97 | $50.05 | [Chart](https://www.tradingview.com/chart/?symbol=TAP) | Molson Coors Beverage Company Class B | TAP |
+| 5 | 97 | $25.28 | [Chart](https://www.tradingview.com/chart/?symbol=DRV) | Direxion Daily Real Estate Bear 3X Shares | DRV |
+| 9 | 97 | $46.27 | [Chart](https://www.tradingview.com/chart/?symbol=CWT) | California Water Service | CWT |
+| 12 | 97 | $22.85 | [Chart](https://www.tradingview.com/chart/?symbol=IBTG) | iShares iBonds Dec 2026 Term Treasury ETF | IBTG |
+| 13 | 97 | $77.08 | [Chart](https://www.tradingview.com/chart/?symbol=CNS) | Cohen & Steers Inc. | CNS |
+| 10 | 96 | $49.05 | [Chart](https://www.tradingview.com/chart/?symbol=SNY) | Sanofi American Depositary Shares (Each representing one-half of one ordinary share) | SNY |
+| 17 | 96 | $47.39 | [Chart](https://www.tradingview.com/chart/?symbol=KBR) | KBR, Inc. | KBR |
+| 6 | 95 | $27.79 | [Chart](https://www.tradingview.com/chart/?symbol=BRZE) | Braze, Inc. Class A Common Stock | BRZE |
+| 9 | 94 | $21.74 | [Chart](https://www.tradingview.com/chart/?symbol=TUA) | Simplify Short Term Treasury Futures Strategy ETF | TUA |
+| 12 | 94 | $82.44 | [Chart](https://www.tradingview.com/chart/?symbol=SHY) | iShares 1-3 Year Treasury Bond ETF | SHY |
+| 11 | 92 | $35.94 | [Chart](https://www.tradingview.com/chart/?symbol=OHI) | Omega Healthcare Investors Inc. | OHI |
+| 21 | 92 | $105.09 | [Chart](https://www.tradingview.com/chart/?symbol=DECK) | Deckers Outdoor Corp | DECK |
+| 23 | 92 | $461.90 | [Chart](https://www.tradingview.com/chart/?symbol=LMT) | Lockheed Martin Corp. | LMT |
+| 13 | 91 | $110.17 | [Chart](https://www.tradingview.com/chart/?symbol=SHV) | iShares Short Treasury Bond ETF | SHV |
+| 20 | 90 | $13.97 | [Chart](https://www.tradingview.com/chart/?symbol=DOLE) | Dole plc | DOLE |
+| 14 | 89 | $100.28 | [Chart](https://www.tradingview.com/chart/?symbol=MINT) | PIMCO Enhanced Short Maturity Active Exchange-Traded Fund | MINT |
+| 14 | 89 | $59.90 | [Chart](https://www.tradingview.com/chart/?symbol=FTSM) | First Trust Enhanced Short Maturity ETF | FTSM |
+| 16 | 89 | $34.57 | [Chart](https://www.tradingview.com/chart/?symbol=PECO) | Phillips Edison & Company, Inc. Common Stock | PECO |
+| 19 | 89 | $24.61 | [Chart](https://www.tradingview.com/chart/?symbol=HYMB) | SPDR Nuveen ICE High Yield Municipal Bond ETF | HYMB |
+| 24 | 89 | $86.33 | [Chart](https://www.tradingview.com/chart/?symbol=SIGI) | Selective Insurance Group | SIGI |
+| 26 | 89 | $32.45 | [Chart](https://www.tradingview.com/chart/?symbol=INVH) | Invitation Homes Inc. Common Stock | INVH |
+| 26 | 88 | $61.38 | [Chart](https://www.tradingview.com/chart/?symbol=UL) | Unilever plc | UL |
+| 15 | 87 | $49.19 | [Chart](https://www.tradingview.com/chart/?symbol=BNDX) | Vanguard Total International Bond ETF | BNDX |
+| 22 | 87 | $105.64 | [Chart](https://www.tradingview.com/chart/?symbol=DEO) | Diageo plc | DEO |
+| 19 | 86 | $26.16 | [Chart](https://www.tradingview.com/chart/?symbol=PNTG) | The Pennant Group, Inc. Common Stock | PNTG |
+| 21 | 86 | $164.11 | [Chart](https://www.tradingview.com/chart/?symbol=HSY) | The Hershey Company | HSY |
+| 20 | 84 | $77.65 | [Chart](https://www.tradingview.com/chart/?symbol=AWR) | American States Water Company | AWR |
+| 17 | 83 | $25.19 | [Chart](https://www.tradingview.com/chart/?symbol=TBBB) | BBB Foods Inc. | TBBB |
+| 19 | 83 | $287.65 | [Chart](https://www.tradingview.com/chart/?symbol=ACN) | Accenture PLC | ACN |
+| 20 | 83 | $20.40 | [Chart](https://www.tradingview.com/chart/?symbol=CON) | Concentra Group Holdings Parent, Inc. | CON |
+| 30 | 83 | $15.97 | [Chart](https://www.tradingview.com/chart/?symbol=BNL) | Broadstone Net Lease, Inc. | BNL |
+| 22 | 81 | $19.10 | [Chart](https://www.tradingview.com/chart/?symbol=MSDL) | Morgan Stanley Direct Lending Fund | MSDL |
+| 27 | 81 | $120.47 | [Chart](https://www.tradingview.com/chart/?symbol=ITGR) | Integer Holdings Corporation | ITGR |
+| 27 | 81 | $40.53 | [Chart](https://www.tradingview.com/chart/?symbol=UDR) | UDR, Inc. | UDR |
+| 36 | 78 | $18.09 | [Chart](https://www.tradingview.com/chart/?symbol=S) | SentinelOne, Inc. | S |
+| 31 | 76 | $35.72 | [Chart](https://www.tradingview.com/chart/?symbol=AMH) | AMERICAN HOMES 4 RENT | AMH |
+| 30 | 75 | $66.98 | [Chart](https://www.tradingview.com/chart/?symbol=EQR) | Equity Residential | EQR |
+| 34 | 75 | $18.10 | [Chart](https://www.tradingview.com/chart/?symbol=INFY) | Infosys Limited American Depositary Shares | INFY |
+| 29 | 74 | $39.94 | [Chart](https://www.tradingview.com/chart/?symbol=LZB) | La-Z-Boy Incorporated | LZB |
+| 32 | 74 | $166.84 | [Chart](https://www.tradingview.com/chart/?symbol=EGP) | EastGroup Properties Inc. | EGP |
+| 33 | 74 | $56.44 | [Chart](https://www.tradingview.com/chart/?symbol=USRT) | iShares Core U.S. REIT ETF | USRT |
+| 35 | 70 | $102.46 | [Chart](https://www.tradingview.com/chart/?symbol=FMX) | FOMENTO ECONOMICO MEXICANO, S.A.B. DE C.V. | FMX |
+| 31 | 69 | $240.25 | [Chart](https://www.tradingview.com/chart/?symbol=RNR) | RenaissanceRe Holdings Ltd. | RNR |
+| 36 | 67 | $58.71 | [Chart](https://www.tradingview.com/chart/?symbol=ESNT) | Essent Group LTD | ESNT |
+| 37 | 66 | $105.03 | [Chart](https://www.tradingview.com/chart/?symbol=PDD) | PDD Holdings Inc. American Depositary Shares | PDD |
+| 39 | 64 | $67.70 | [Chart](https://www.tradingview.com/chart/?symbol=QSR) | Restaurant Brands International Inc. | QSR |
 
 ## **Methodology**
 
